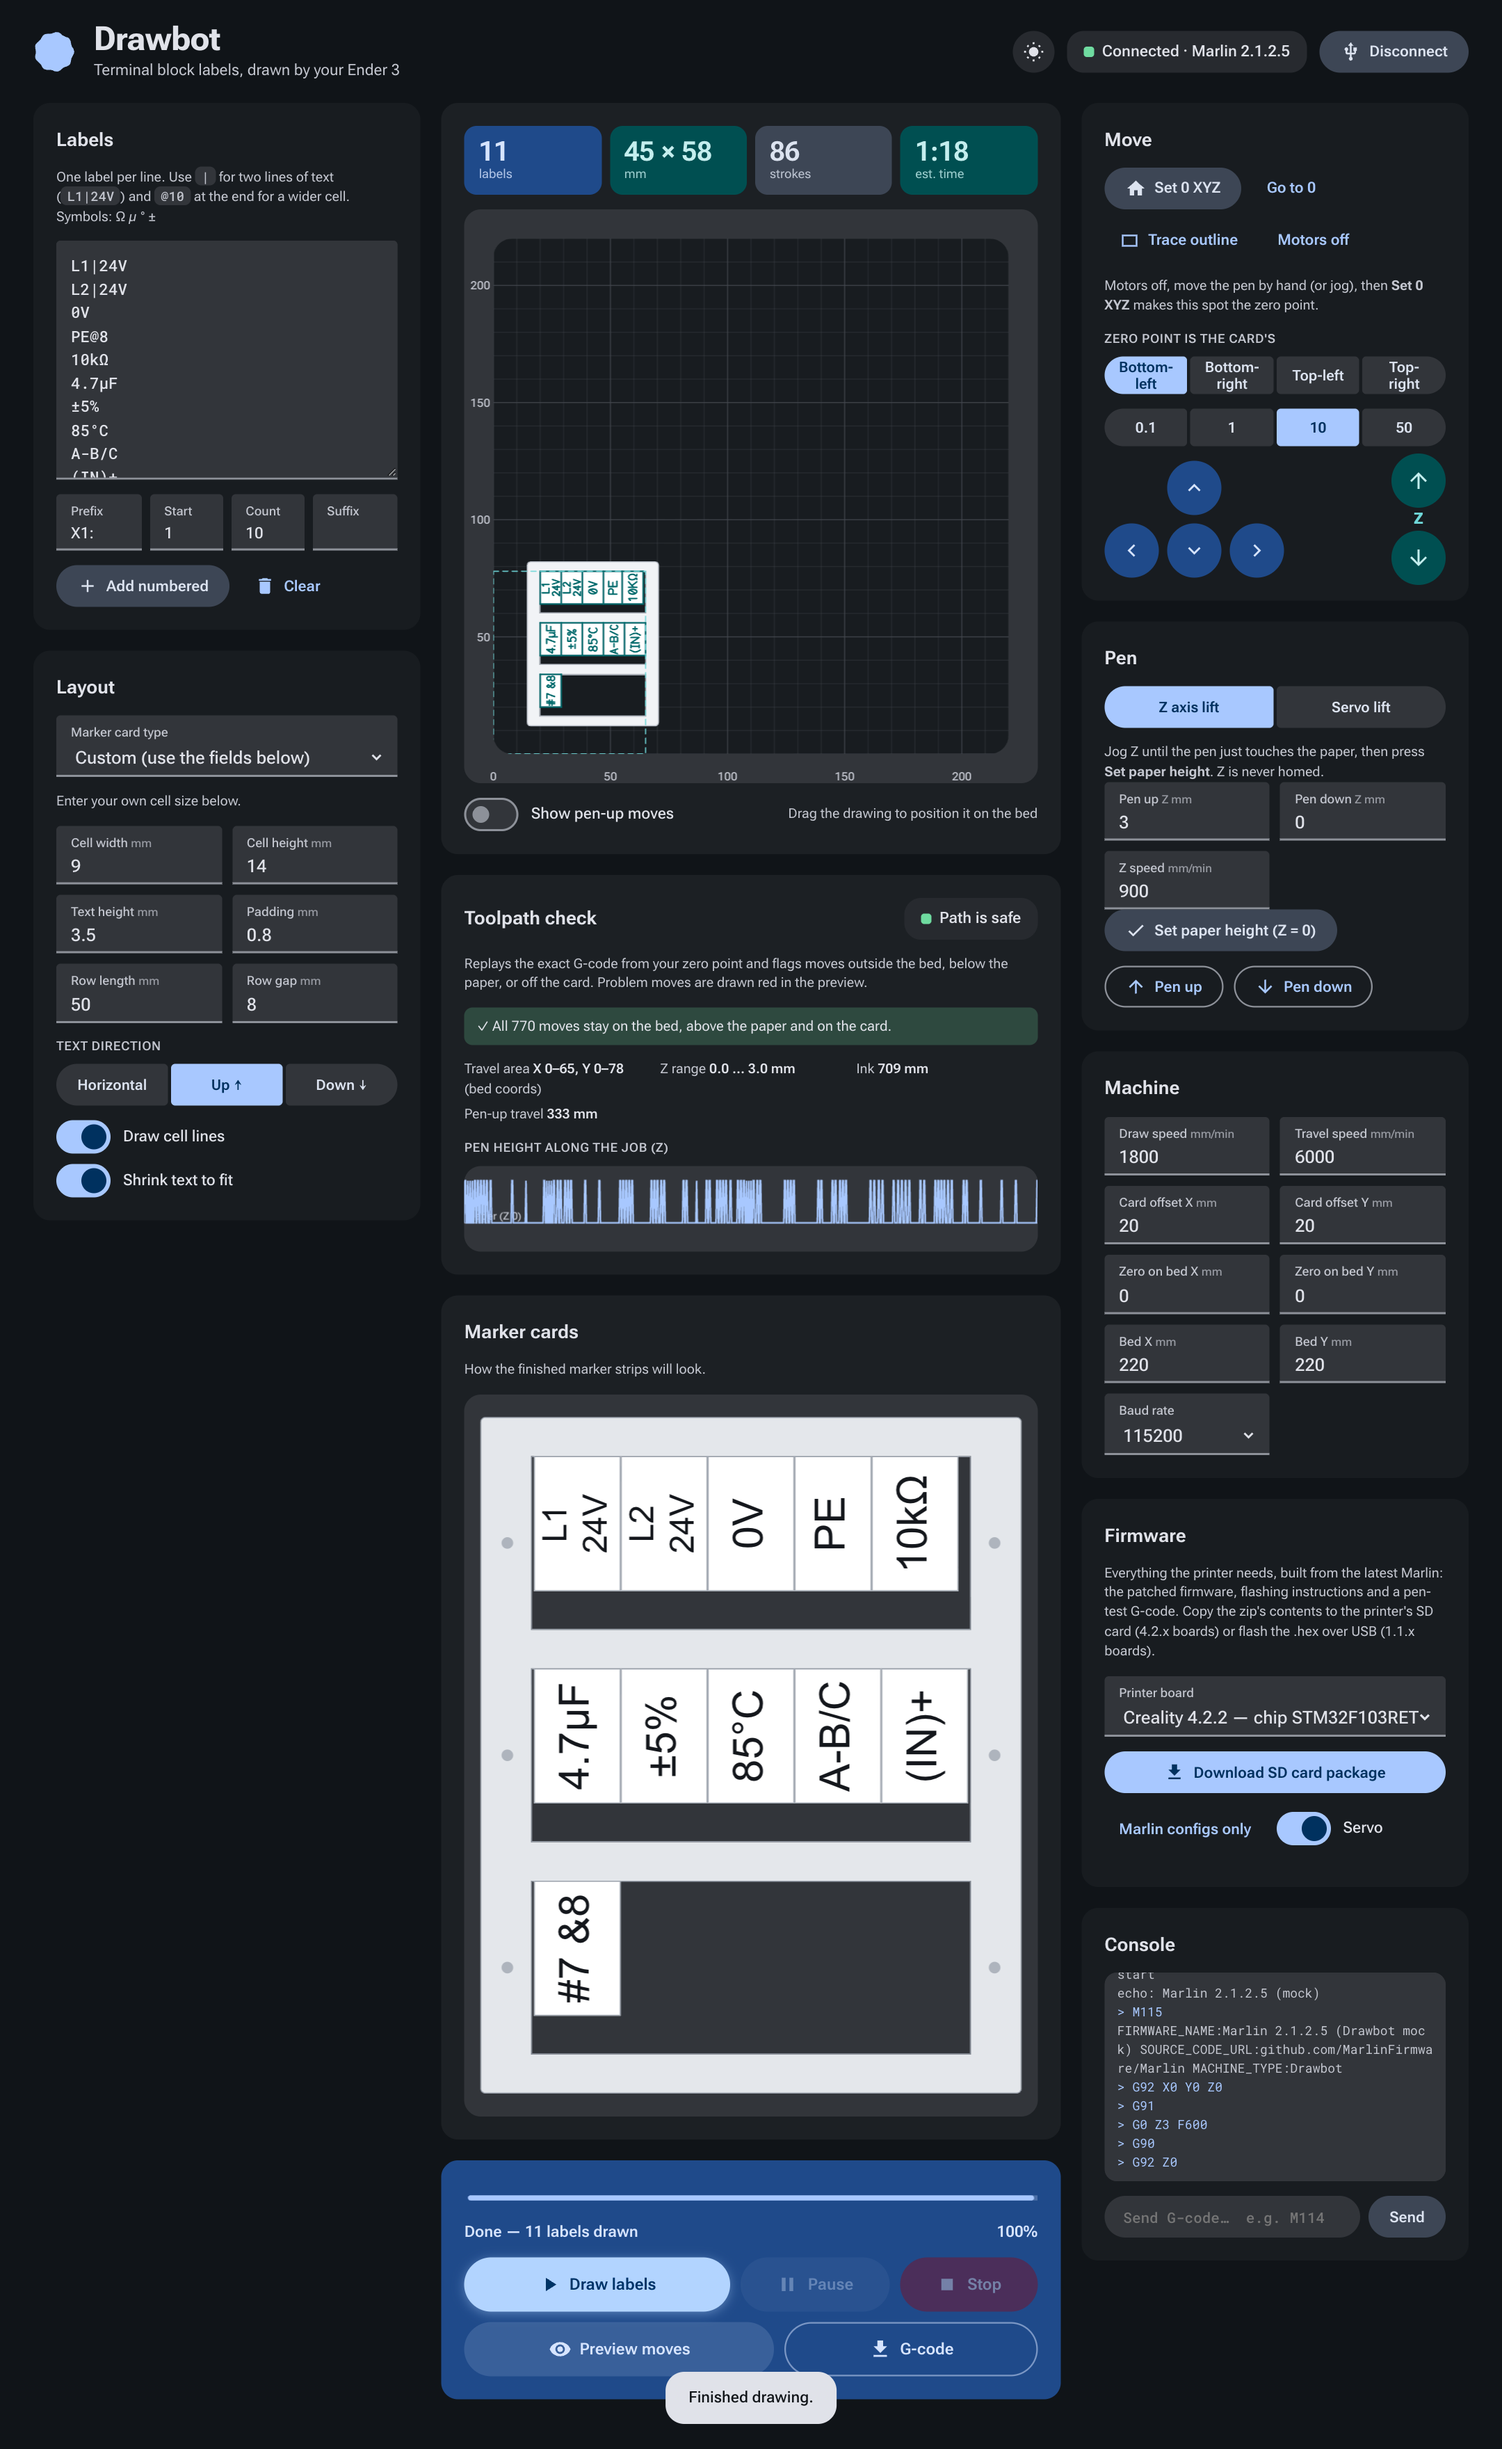
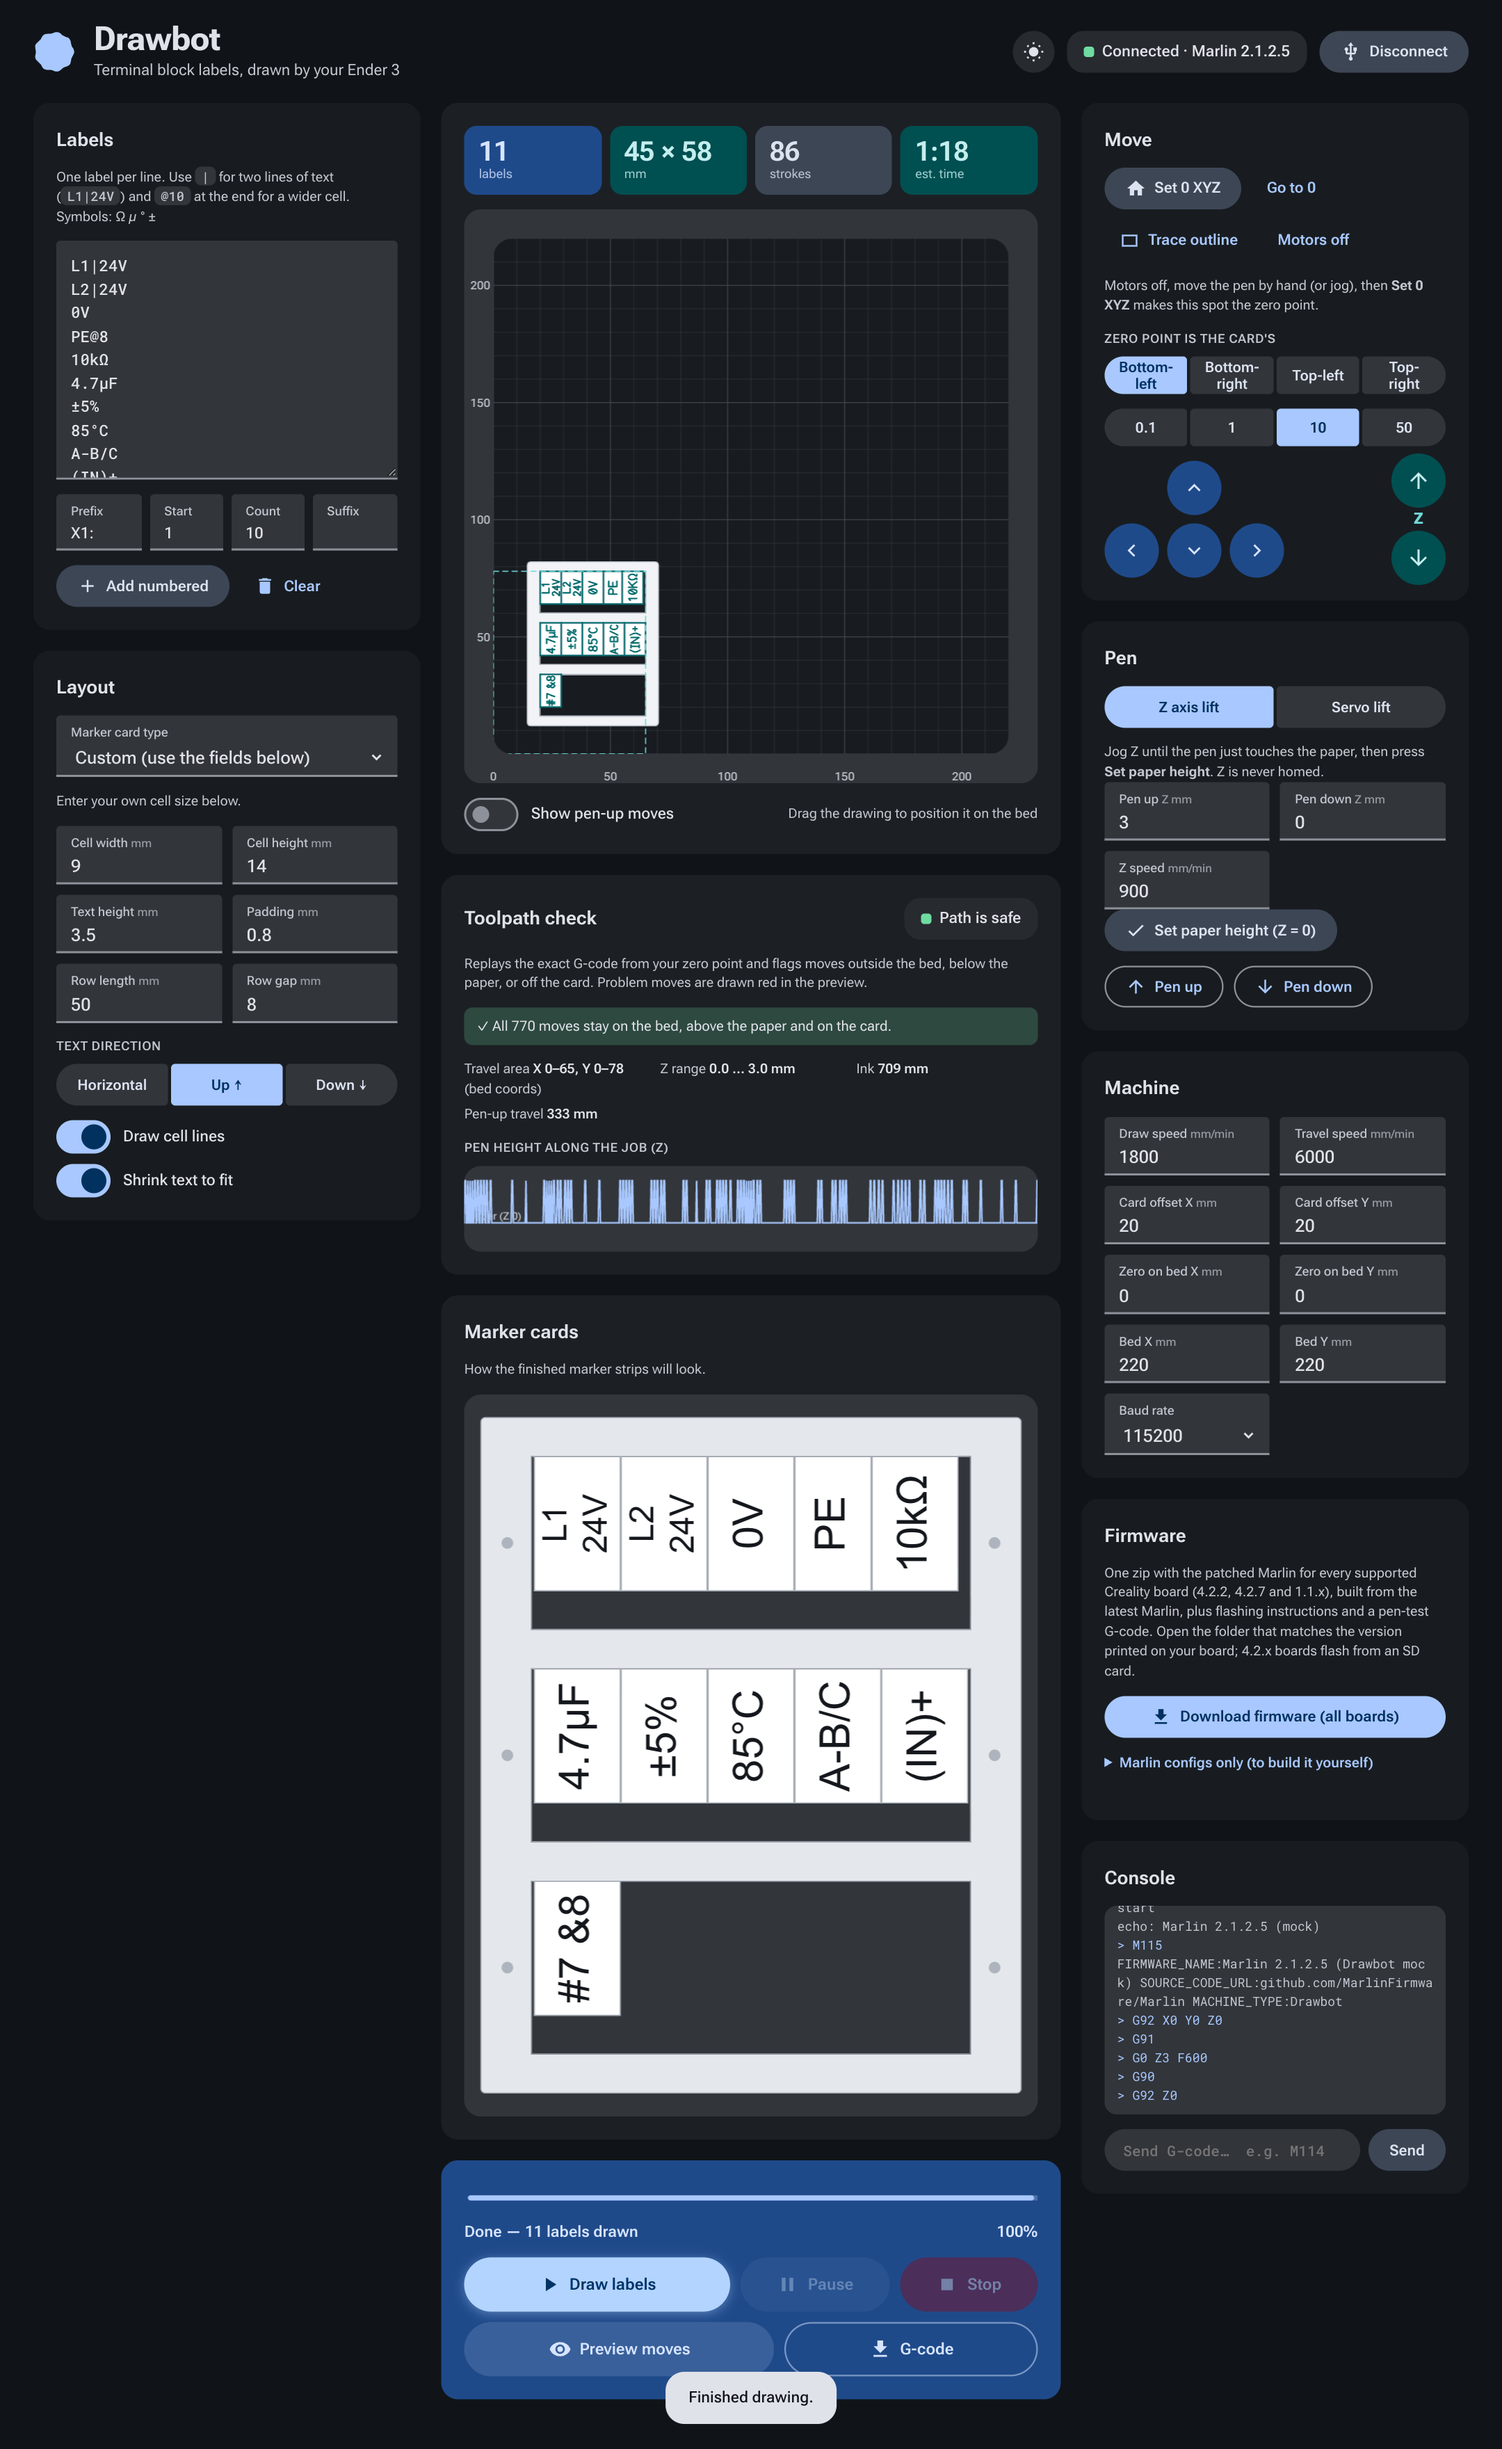
One firmware zip for all boards (4.2.2, 4.2.7, 1.1.x); 4.2.x builds target the 256 KB chip so they run on RET6 and RCT6

Changed region(s): [[0.7134, 0.6248, 0.9616, 0.9372]]

diff --git a/web/app.js b/web/app.js
@@ -556,21 +556,16 @@
   relayout(); kickWave();
   // ---------------------------------------------------------------- firmware download
   const FW_RELEASE = 'https://github.com/douggreenak/drawbot/releases/latest/download/';
-  const FW_PKGS = {
-    'CrealityV422-RET6': 'Creality 4.2.2 — chip STM32F103RET6', 'CrealityV422-RCT6': 'Creality 4.2.2 — chip STM32F103RCT6',
-    'CrealityV427-RET6': 'Creality 4.2.7 — chip STM32F103RET6', 'CrealityV427-RCT6': 'Creality 4.2.7 — chip STM32F103RCT6',
-    'CrealityV1-melzi': 'Creality 1.1.x (8-bit, USB flash)',
-  };
-  $('fwBoard').innerHTML = Object.entries(FW_PKGS).map(([k, v]) => `<option value="${k}">${v}</option>`).join('');
+  const FW_BOARDS = { CrealityV422: 'Creality 4.2.2', CrealityV427: 'Creality 4.2.7', CrealityV1: 'Creality 1.1.x (8-bit)' };
+  $('fwBoard').innerHTML = Object.entries(FW_BOARDS).map(([k, v]) => `<option value="${k}">${v}</option>`).join('');
   $('btnFirmware').onclick = () => {
-    const pkg = $('fwBoard').value;
-    const a = document.createElement('a'); a.href = `${FW_RELEASE}drawbot-sd-${pkg}.zip`; a.download = `drawbot-sd-${pkg}.zip`; a.click();
-    $('fwNote').textContent = /melzi/.test(pkg) ? 'Unzip, then flash the .hex over USB (see READ-ME-FIRST.txt).' : 'Unzip onto a FAT32 SD card (32 GB or less), put it in the powered-off printer, then switch on. See READ-ME-FIRST.txt.';
+    const a = document.createElement('a'); a.href = FW_RELEASE + 'drawbot-firmware-all.zip'; a.download = 'drawbot-firmware-all.zip'; a.click();
+    $('fwNote').textContent = 'Unzip, open the folder for your board (read the label on the main board), and follow READ-ME.txt inside it.';
   };
   $('btnConfigs').onclick = async () => {
     const btn = $('btnConfigs'); btn.disabled = true; $('fwNote').textContent = 'Fetching the latest config from GitHub…';
     try {
-      const r = await window.DBFirmware.build($('fwBoard').value.split('-')[0], $('fwServo').checked);
+      const r = await window.DBFirmware.build($('fwBoard').value, $('fwServo').checked);
       const a = document.createElement('a'); a.href = URL.createObjectURL(r.blob); a.download = r.filename; a.click();
       const miss = r.report.filter(l => l.startsWith('MISS'));
       $('fwNote').textContent = miss.length ? `Downloaded, but ${miss.length} setting(s) were not found: ${miss.join('; ')}.` : `Downloaded ${r.filename}: patched Marlin config (you still need to compile it).`;

diff --git a/web/index.html b/web/index.html
@@ -216,13 +216,12 @@
 
     <article class="card">
       <h2>Firmware</h2>
-      <p class="hint">Everything the printer needs, built from the latest Marlin: the patched firmware, flashing instructions and a pen-test G-code. Copy the zip's contents to the printer's SD card (4.2.x boards) or flash the .hex over USB (1.1.x boards).</p>
-      <label class="field"><span>Printer board</span><select id="fwBoard"></select></label>
-      <button class="btn filled" id="btnFirmware"><svg><use href="#i-download"/></svg><span>Download SD card package</span></button>
-      <div class="row">
-        <button class="btn text" id="btnConfigs"><span>Marlin configs only</span></button>
-        <label class="switch"><input type="checkbox" id="fwServo" checked><i></i><span>Servo</span></label>
-      </div>
+      <p class="hint">One zip with the patched Marlin for every supported Creality board (4.2.2, 4.2.7 and 1.1.x), built from the latest Marlin, plus flashing instructions and a pen-test G-code. Open the folder that matches the version printed on your board; 4.2.x boards flash from an SD card.</p>
+      <button class="btn filled" id="btnFirmware"><svg><use href="#i-download"/></svg><span>Download firmware (all boards)</span></button>
+      <details class="adv"><summary>Marlin configs only (to build it yourself)</summary>
+        <label class="field"><span>Board</span><select id="fwBoard"></select></label>
+        <div class="row"><label class="switch"><input type="checkbox" id="fwServo" checked><i></i><span>Servo</span></label><button class="btn tonal" id="btnConfigs"><span>Download configs</span></button></div>
+      </details>
       <p class="hint" id="fwNote"></p>
     </article>
 

diff --git a/web/styles.css b/web/styles.css
@@ -197,3 +197,6 @@ dialog p { margin: 0 0 20px; color: var(--on-surface-variant); white-space: pre-
 .pathstats { display: grid; grid-template-columns: repeat(auto-fill, minmax(150px, 1fr)); gap: 6px 14px; font-size: 13px; color: var(--on-surface-variant); }
 .pathstats b { color: var(--on-surface); font-weight: 600; }
 #zProfile { display: block; width: 100%; height: 70px; }
+
+.adv summary { cursor: pointer; color: var(--primary); font-weight: 600; font-size: 13.5px; margin-bottom: 10px; }
+.adv[open] { display: flex; flex-direction: column; gap: 10px; }

diff --git a/README.md b/README.md
@@ -31,7 +31,7 @@ Results with images of what the simulated pen drew: **[docs/TEST_RESULTS.md](doc
 This validates the software and the G-code protocol handling, not real hardware or Marlin's actual motion.
 
 ## 0. Hosted
-The `web/` folder is a static site (see `vercel.json`); on Vercel it runs over https, which Web Serial needs, so there is no local server to start. The **Firmware** card downloads a ready-to-copy SD-card package per board (built by `.github/workflows/firmware.yml` from the latest Marlin and published to the `latest` release), or just the patched Marlin configs.
+The `web/` folder is a static site (see `vercel.json`); on Vercel it runs over https, which Web Serial needs, so there is no local server to start. The **Firmware** card downloads one zip with a folder per board (4.2.2, 4.2.7, 1.1.x) built by `.github/workflows/firmware.yml` from the latest Marlin and published to the `latest` release, or just the patched Marlin configs.
 
 ## 1. Run the app locally
 ```
